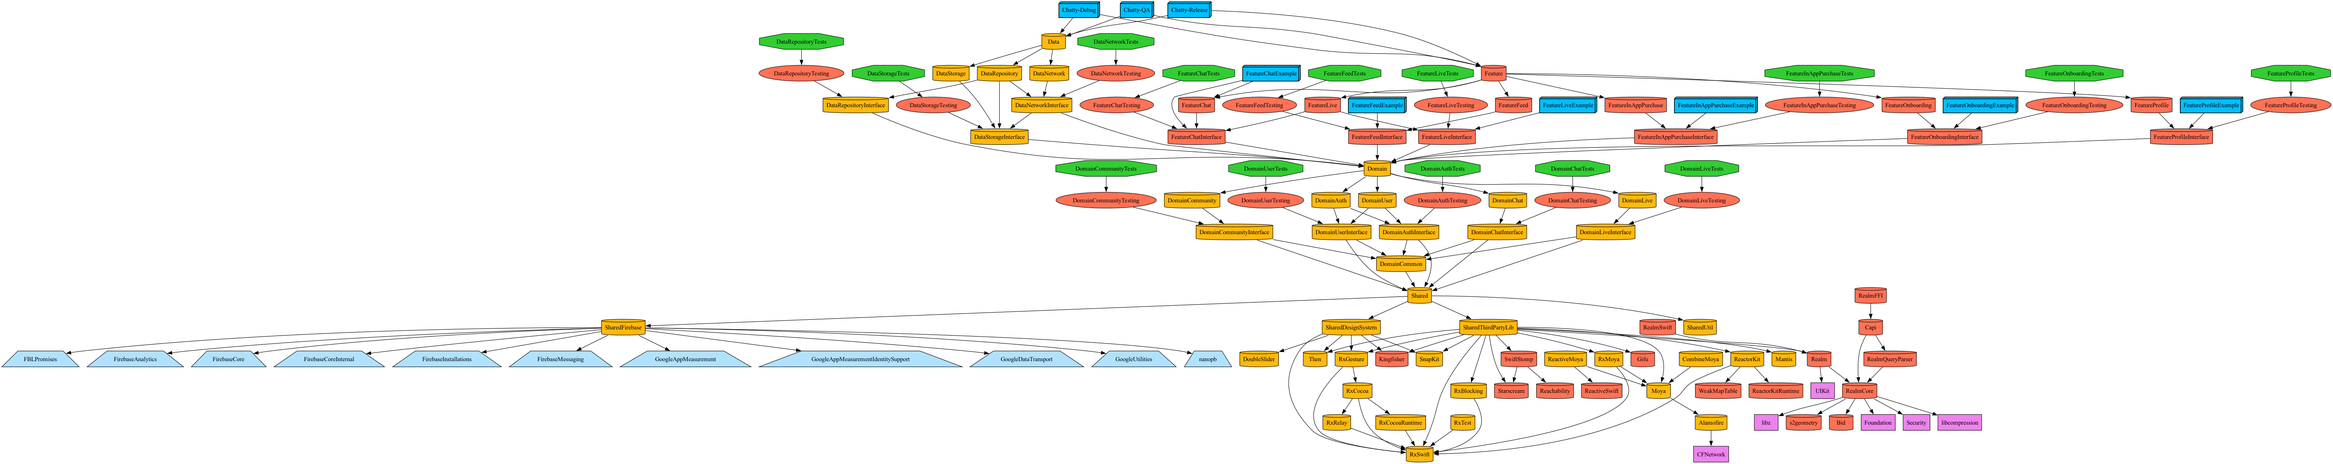
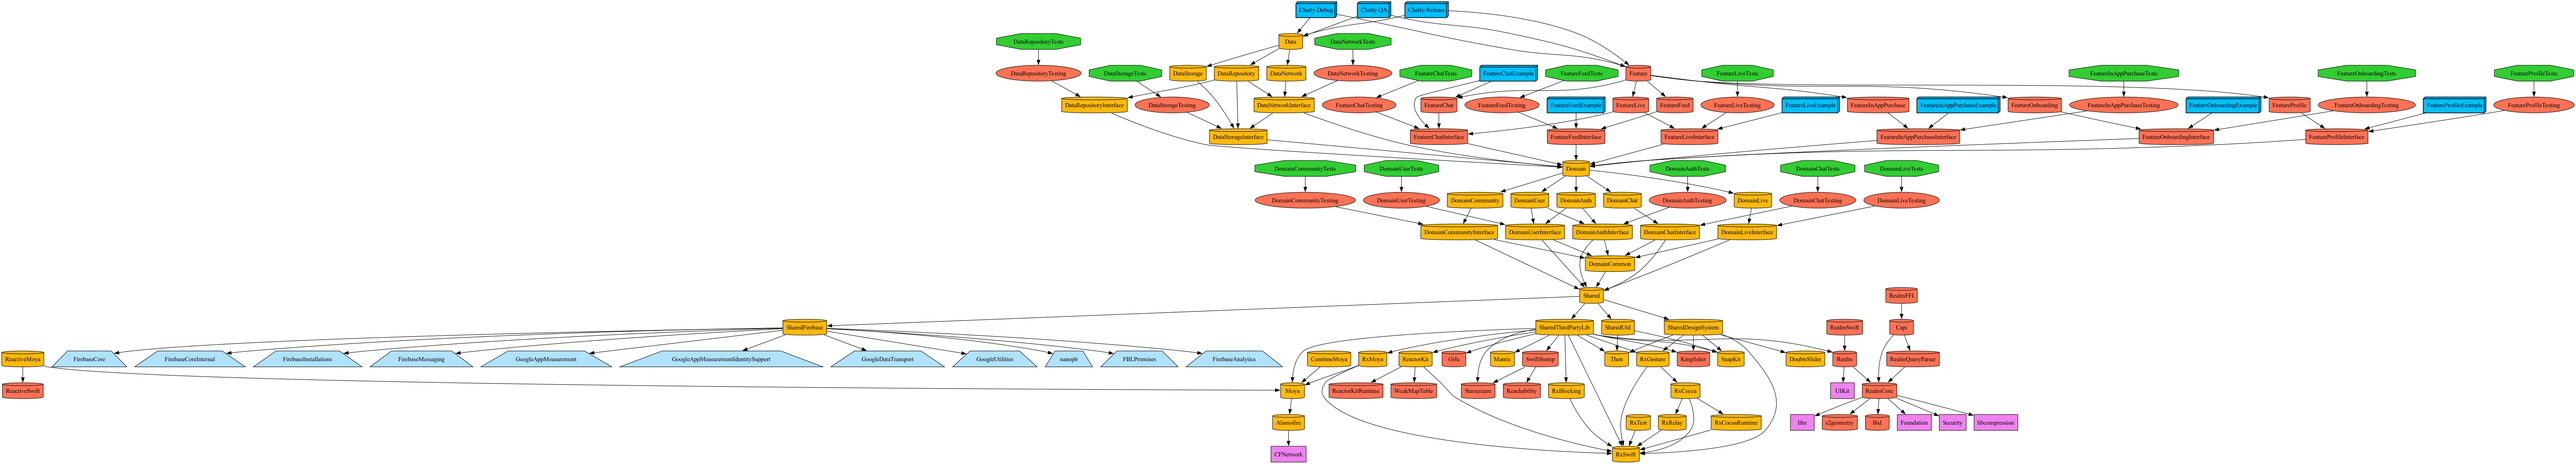
fix: Feature Feed -> Feature Chat Interface 의존성 추가 [IOS-54]

diff --git a/Projects/Feature/Feed/Project.swift b/Projects/Feature/Feed/Project.swift
@@ -17,7 +17,8 @@ let project = Project.makeModule(
       implements: .Feed,
       factory: .init(
         dependencies: [
-          .feature(interface: .Feed)
+          .feature(interface: .Feed),
+          .feature(interface: .Chat)
         ]
       )
     ),
